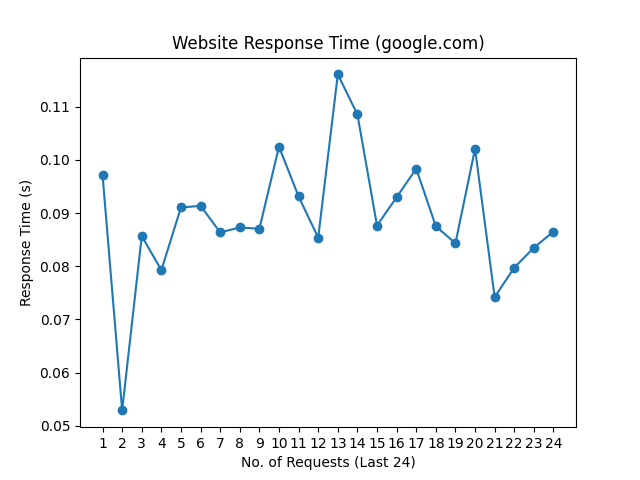
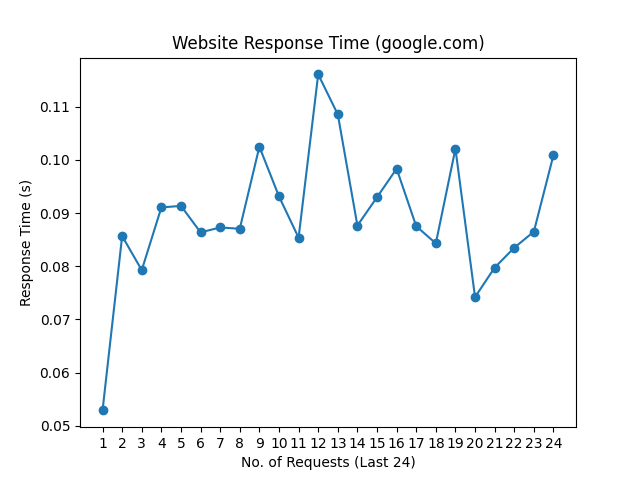
update README.md, history and graph

Changed region(s): [[0.1562, 0.125, 0.875, 0.875], [0.8438, 0.3125, 0.875, 0.4375]]

diff --git a/README.md b/README.md
@@ -1,10 +1,10 @@
 # Web Monitoring
 
-Last Checked: 30/01/2024 08:59
+Last Checked: 31/01/2024 09:00
 
 | Website | Response Time (s) | Status | Avg Uptime (%) |
 |---------|-------------------|--------|----------------|
 | www.thiswebsiteisdown.net | 0 <br> <img src="graph/thiswebsiteisdown.net.png" alt="Graph" width="200" height="200">  | ❌ Down | 0.00 |
-| www.netflix.com | 1.373042 <br> <img src="graph/netflix.com.png" alt="Graph" width="200" height="200">  | ✅ Up | 100.00 |
-| www.google.com | 0.086492 <br> <img src="graph/google.com.png" alt="Graph" width="200" height="200">  | ✅ Up | 100.00 |
-| www.facebook.com | 0.896598 <br> <img src="graph/facebook.com.png" alt="Graph" width="200" height="200">  | ✅ Up | 100.00 |
+| www.netflix.com | 1.021449 <br> <img src="graph/netflix.com.png" alt="Graph" width="200" height="200">  | ✅ Up | 100.00 |
+| www.google.com | 0.100873 <br> <img src="graph/google.com.png" alt="Graph" width="200" height="200">  | ✅ Up | 100.00 |
+| www.facebook.com | 0.508034 <br> <img src="graph/facebook.com.png" alt="Graph" width="200" height="200">  | ✅ Up | 100.00 |
